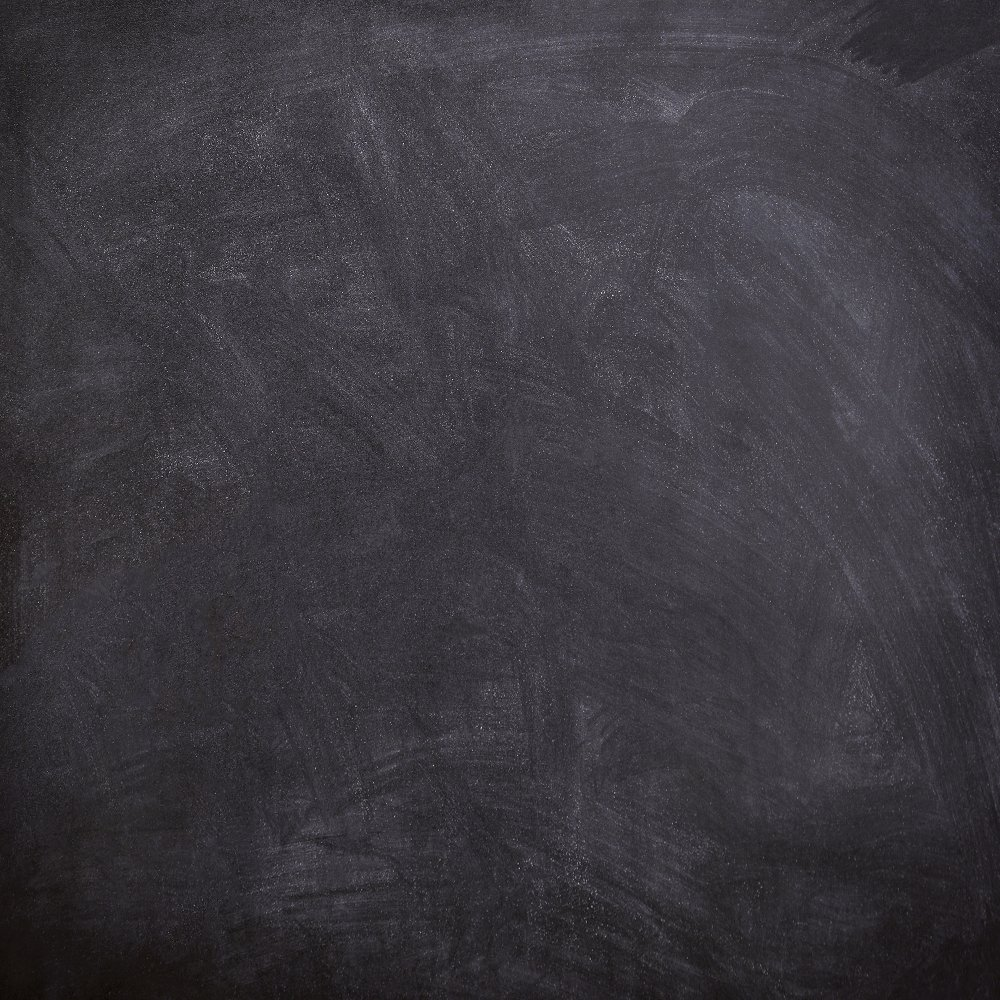
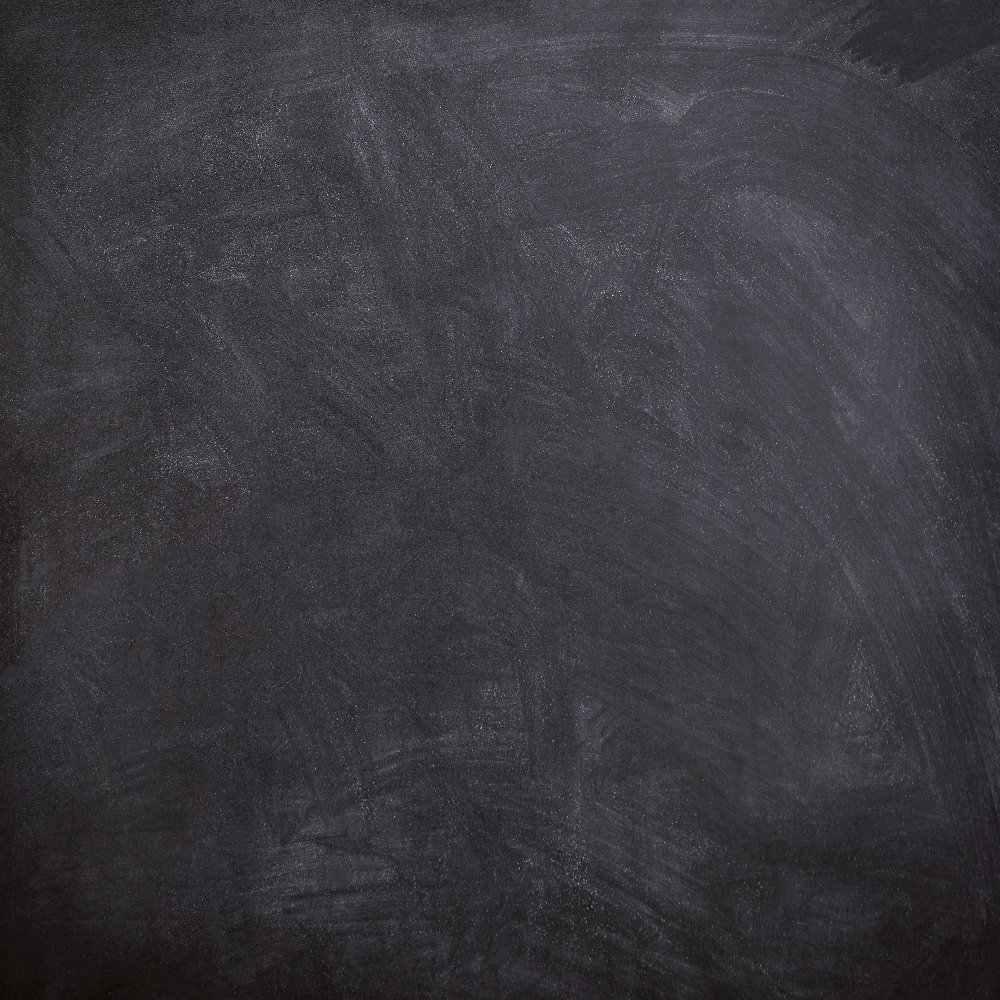
Lighter pictures
Some pictures (background) was too heavy, reduced it with gimp

diff --git a/step 3/css/styles.css b/step 3/css/styles.css
@@ -6897,17 +6897,17 @@ button {
   color: white;
   font-family: 'Annie Use Your Telescope', cursive;
   background-size: cover;
-  background-image: url(../pictures/display-background.png);
+  background-image: url(../pictures/display-background.jpg);
   padding: 15px;
   overflow: auto;
   box-shadow: 2px 2px 2px black;
 }
 /*-----Players infos and picture zones-----*/
 .player-1 {
-  background-image: url(../pictures/red-background.png);
+  background-image: url(../pictures/red-background.jpg);
 }
 .player-2 {
-  background-image: url(../pictures/blue-background.png);
+  background-image: url(../pictures/blue-background.jpg);
 }
 .player-display {
   margin-bottom: 10px;

diff --git a/step 3/js/game-engine.js b/step 3/js/game-engine.js
@@ -157,8 +157,8 @@ GameEngine.prototype.launchNewGame = function() {
 };
 
 GameEngine.prototype.createPlayers = function() {
-	var playerRed = new Player('Joueur Rouge', 'red', true, 'red-background.png', this.logsDetailsManager);
-	var playerBlue = new Player('Joueur Bleu', 'blue', false, 'blue-background.png', this.logsDetailsManager);
+	var playerRed = new Player('Joueur Rouge', 'red', true, 'red-background.jpg', this.logsDetailsManager);
+	var playerBlue = new Player('Joueur Bleu', 'blue', false, 'blue-background.jpg', this.logsDetailsManager);
 
 	this.playerStore = new PlayerStore();
 	this.playerStore.addPlayer(playerRed);

diff --git a/step 3/less/partials/players-infos.less b/step 3/less/partials/players-infos.less
@@ -1,10 +1,10 @@
 /*-----Players infos and picture zones-----*/
 .player-1{
-	background-image: url(../pictures/red-background.png);
+	background-image: url(../pictures/red-background.jpg);
 }
 
 .player-2 {
-	background-image: url(../pictures/blue-background.png);
+	background-image: url(../pictures/blue-background.jpg);
 }
 
 .player-display {

diff --git a/step 3/less/partials/logs.less b/step 3/less/partials/logs.less
@@ -9,7 +9,7 @@
 	color: @white;
 	font-family: @font-family-handwriting;
 	background-size: cover;
-	background-image: url(../pictures/display-background.png);
+	background-image: url(../pictures/display-background.jpg);
 	padding: 15px;
 	overflow: auto;
 	box-shadow: 2px 2px 2px @black;
